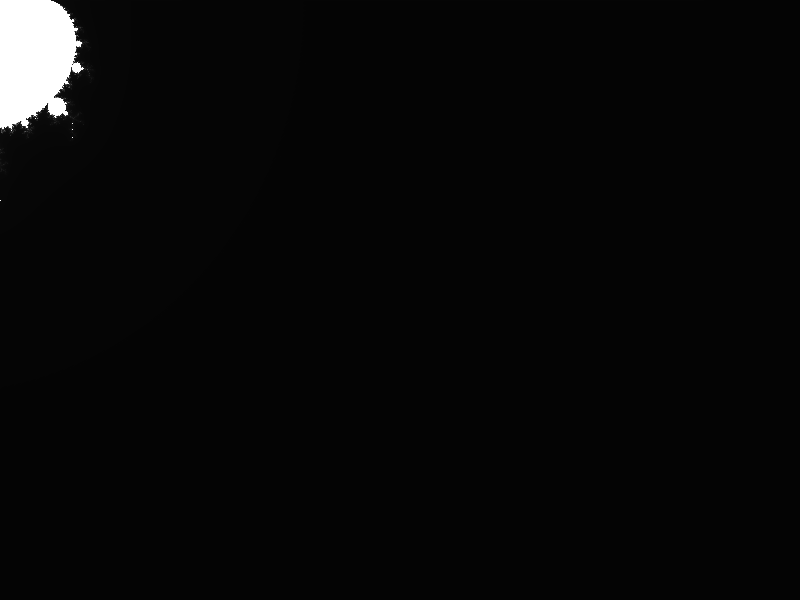
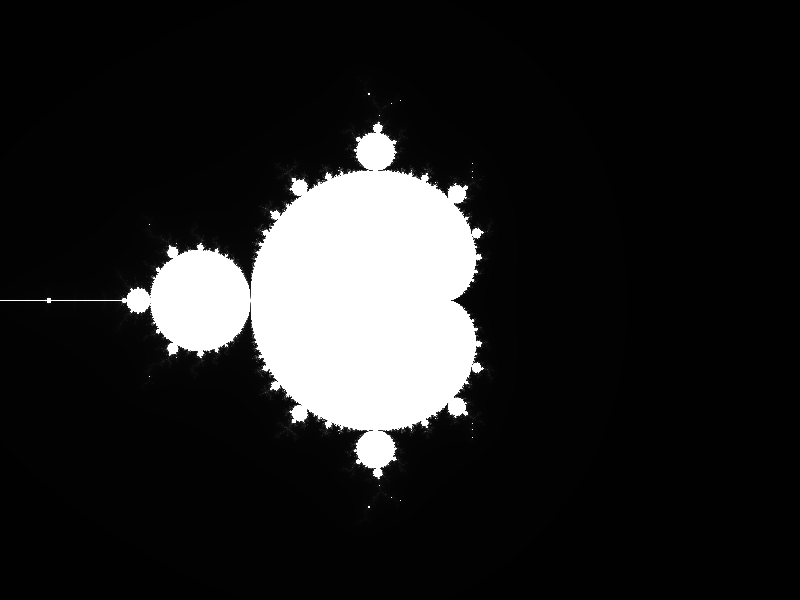
fix render+calc bug

Changed region(s): [[0.125, 0.21, 0.625, 0.81], [0.0, 0.0, 0.125, 0.24]]

diff --git a/src/main.rs b/src/main.rs
@@ -10,8 +10,8 @@ fn main() {
 
     const RSTART: f64 = -2f64;
     const REND: f64 = 2f64;
-    const ISTART: f64 = 1.5;
-    const IEND: f64 = -1.5;
+    const ISTART: f64 = -1.5;
+    const IEND: f64 = 1.5;
 
     const WIDTH: i32 = 800;
     const HEIGHT: i32 = 600;
@@ -25,12 +25,13 @@ fn main() {
     for y in 0..HEIGHT {
         println!("{}",y);
         for x in 0..WIDTH {
-            let c = Complex::new((x as f64)*RD, (y as f64)*ID);
+            let c = Complex::new((x as f64)*RD + RSTART, (y as f64)*ID + ISTART);
             let mut z = zero;
             for i in 0..ITERATIONS {
                 z = z*z + c;
                 if z.norm_sqr() >= 2500.0f64 {
                     arr[y as usize][x as usize] = i;
+                    break;
                 }
             }
         }
